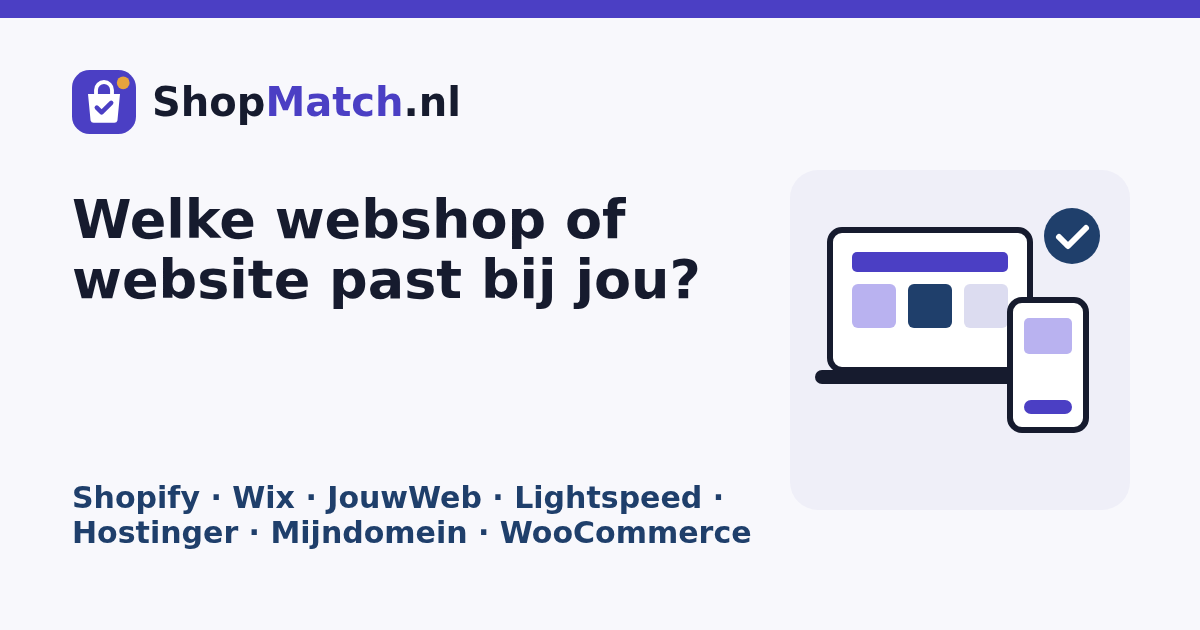
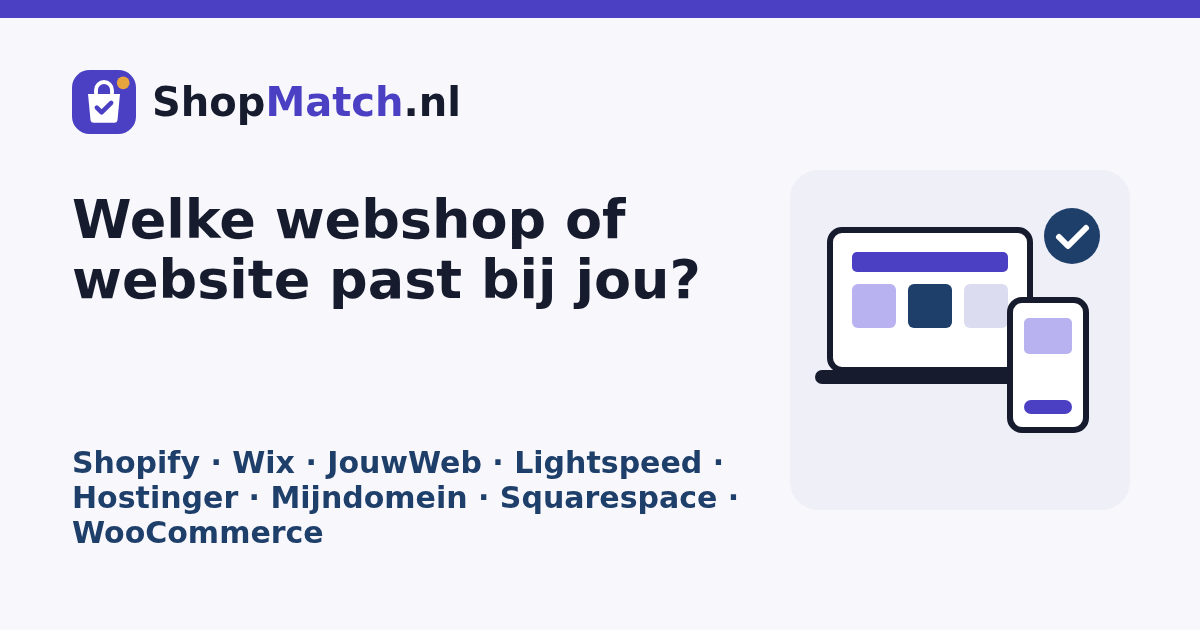
Squarespace toegevoegd: platformpagina, checklist met bronnen (eigen pagina's), EUR-prijzen uit Squarespace pricing.txt, lege partnerslot, overzicht/vergelijken/kosten, og-beeld

Changed region(s): [[0.0617, 0.6937, 0.6475, 0.8746]]

diff --git a/src/lib/platforms.js b/src/lib/platforms.js
@@ -110,6 +110,21 @@ export const PLATFORMS = {
     voor: 'Wie al met WordPress werkt of volledige controle wil.',
     bronnen: [['WooCommerce prijzen', 'https://woocommerce.com/nl/pricing/']],
   },
+  squarespace: {
+    naam: 'Squarespace', slug: 'squarespace', soort: 'Websitebouwer', url: 'https://www.squarespace.com/',
+    kort: 'Websitebouwer met verzorgde templates, waarmee je in elk pakket producten en diensten verkoopt.',
+    vanaf: 12, vanafTekst: '€ 12 per maand (Basic, jaarbetaling)', prijsNoot: 'Zoals Squarespace ze toont. Squarespace noemt de prijzen inclusief btw waar dat in de regio verplicht is.',
+    plannen: [
+      ['Basic', '€ 12 (bij jaarbetaling) · € 17 bij maandbetaling', 'Onbeperkt producten, 2% transactiekosten op webshopverkopen, 2 bijdragers'],
+      ['Core', '€ 18 (bij jaarbetaling) · € 24 bij maandbetaling', '0% transactiekosten op webshopverkopen, kortingen, Google Shopping'],
+      ['Plus', '€ 32 (bij jaarbetaling) · € 42 bij maandbetaling', 'Lagere kaarttarieven, eigen CSS en JavaScript'],
+      ['Advanced', '€ 69 (bij jaarbetaling) · € 79 bij maandbetaling', 'Laagste kaarttarieven, 0% op cursussen en lidmaatschappen'],
+    ],
+    plus: ['14 dagen gratis proberen, zonder creditcard', 'Onbeperkt producten in elk pakket', 'iDEAL via Squarespace Payments', 'Maandelijks of jaarlijks betalen, op elk moment op te zeggen'],
+    min: ['Basic rekent 2% transactiekosten op webshopverkopen', 'De kassa-app werkt alleen in de VS en het VK', 'Geen gratis pakket'],
+    voor: 'Dienstverleners, creatieve ondernemers en kleine merken die een verzorgde site met webshop willen.',
+    bronnen: [['Squarespace prijzen', 'https://www.squarespace.com/pricing'], ['Squarespace prijzen per valuta (EUR)', 'https://www.squarespace.com/assets/pricing.txt']],
+  },
 };
 export const IDS = Object.keys(PLATFORMS);
 
@@ -123,12 +138,13 @@ export const BEST_FOR = {
   hostinger: 'Laagste instapprijs',
   mijndomein: 'Alles bij één Nederlandse partij',
   woocommerce: 'Volledige controle',
+  squarespace: 'Verzorgd design en diensten',
 };
 // Maandprijs van het goedkoopste pakket waarmee je online kunt verkopen (zelfde bedragen als in PLATFORMS.plannen).
-export const VERKOOP_VANAF = { shopify: 21, wix: 25, jouwweb: 10, lightspeed: 68, hostinger: 3.99, mijndomein: 15, woocommerce: 0 };
-export const VERKOOP_PAKKET = { shopify: 'Basic, jaarbetaling', wix: 'Core', jouwweb: 'Pro, tot 10 producten', lightspeed: 'Essential', hostinger: 'Onbeperkt, 48 maanden vooraf', mijndomein: 'Start, 25 producten', woocommerce: 'plugin, plus hosting' };
+export const VERKOOP_VANAF = { shopify: 21, wix: 25, jouwweb: 10, lightspeed: 68, hostinger: 3.99, mijndomein: 15, woocommerce: 0, squarespace: 12 };
+export const VERKOOP_PAKKET = { shopify: 'Basic, jaarbetaling', wix: 'Core', jouwweb: 'Pro, tot 10 producten', lightspeed: 'Essential', hostinger: 'Onbeperkt, 48 maanden vooraf', mijndomein: 'Start, 25 producten', woocommerce: 'plugin, plus hosting', squarespace: 'Basic, jaarbetaling' };
 // Maximaal aantal producten in het grootste standaardpakket. Infinity = onbeperkt; null = niet vermeld door de aanbieder.
-export const MAX_PRODUCTEN = { shopify: Infinity, wix: Infinity, jouwweb: Infinity, lightspeed: 15000, hostinger: null, mijndomein: 20000, woocommerce: Infinity };
+export const MAX_PRODUCTEN = { shopify: Infinity, wix: Infinity, jouwweb: Infinity, lightspeed: 15000, hostinger: null, mijndomein: 20000, woocommerce: Infinity, squarespace: Infinity };
 
 // Checklist per platform. v: 'ja' | 'deels' | 'nee' | null (= niet vermeld op de site van de aanbieder).
 // t: korte toelichting. s: bron-URL (alleen sites van de aanbieder zelf, of de plugin bij WooCommerce).
@@ -144,6 +160,8 @@ const S = {
   hoBouw: 'https://www.hostinger.com/nl/website-maken', hoIdeal: 'https://www.hostinger.com/support/6538716-hostinger-ecommerce-accepting-payments-via-ideal/',
   mdShop: 'https://www.mijndomein.nl/producten/webshop',
   wooPrijs: 'https://woocommerce.com/nl/pricing/', wooPay: 'https://woocommerce.com/document/woopayments/payment-methods/',
+  sqPrijs: 'https://www.squarespace.com/pricing', sqIdeal: 'https://support.squarespace.com/hc/en-us/articles/41153740955149-Accepting-iDEAL-with-Squarespace-Payments',
+  sqTaal: 'https://support.squarespace.com/hc/en-us/articles/205809778-Creating-a-multilingual-site-with-Weglot',
   wooB2b: 'https://woocommerce.com/products/b2b-for-woocommerce/', wooPos: 'https://woocommerce.com/woocommerce-pos/', wpml: 'https://wpml.org/',
 };
 export const FEATURES = {
@@ -230,5 +248,17 @@ export const FEATURES = {
     hosting: { v: 'nee', t: 'Hosting, updates en beveiliging regel je zelf', s: S.wooPrijs },
     proberen: { v: 'ja', t: 'De plugin is gratis; hosting betaal je zelf', s: S.wooPrijs },
     maand: { v: 'ja', t: 'Geen abonnement voor de plugin', s: S.wooPrijs },
+  },
+  squarespace: {
+    ideal: { v: 'ja', t: 'Via Squarespace Payments', s: S.sqIdeal },
+    geenfee: { v: 'deels', t: '0% vanaf Core; Basic rekent 2% op webshopverkopen', s: S.sqPrijs },
+    nl: { v: 'nee', t: 'Internationale aanbieder' },
+    onbeperkt: { v: 'ja', t: 'In elk pakket', s: S.sqPrijs },
+    b2b: { v: null },
+    talen: { v: 'deels', t: 'Via de Weglot-integratie', s: S.sqTaal },
+    pos: { v: 'nee', t: 'Kassa alleen in de VS en het VK', s: S.sqPrijs },
+    hosting: { v: 'ja', t: 'Hosting inbegrepen', s: S.sqPrijs },
+    proberen: { v: 'ja', t: '14 dagen gratis, zonder creditcard', s: S.sqPrijs },
+    maand: { v: 'ja', t: 'Maandbetaling, op elk moment op te zeggen', s: S.sqPrijs },
   },
 };

diff --git a/src/lib/match.js b/src/lib/match.js
@@ -40,10 +40,10 @@ export function score(a) {
     if (a.budget === 'mid') { if (prijs > 40) s -= 25; else if (prijs >= 10) s += 6; }
     if (a.budget === 'hoog' && (id === 'shopify' || id === 'lightspeed')) s += 8;
     // Doel
-    if (a.doel === 'site') { if (['wix', 'jouwweb', 'hostinger'].includes(id)) { s += 18; waarom.push('Sterk in gewone websites'); } if (['shopify', 'lightspeed', 'mijndomein'].includes(id)) s -= 25; }
-    if (a.doel === 'diensten') { if (['wix', 'jouwweb', 'mijndomein'].includes(id)) { s += 12; waarom.push(id === 'mijndomein' ? 'Afspraken boeken zit in elk pakket' : 'Website en diensten verkopen in één'); } if (id === 'lightspeed') s -= 20; }
+    if (a.doel === 'site') { if (['wix', 'jouwweb', 'hostinger', 'squarespace'].includes(id)) { s += 18; waarom.push('Sterk in gewone websites'); } if (['shopify', 'lightspeed', 'mijndomein'].includes(id)) s -= 25; }
+    if (a.doel === 'diensten') { if (['wix', 'jouwweb', 'mijndomein', 'squarespace'].includes(id)) { s += 12; waarom.push(id === 'mijndomein' ? 'Afspraken boeken zit in elk pakket' : 'Website en diensten verkopen in één'); } if (id === 'lightspeed') s -= 20; }
     if (a.doel === 'shop') { if (['shopify', 'jouwweb', 'mijndomein', 'woocommerce'].includes(id)) { s += 10; waarom.push('Gebouwd om online te verkopen'); } }
-    if (a.doel === 'winkel') { if (id === 'lightspeed') { s += 30; waarom.push('Kassa en webshop van één leverancier'); } if (id === 'shopify') { s += 22; waarom.push('Verkopen in de winkel met Shopify POS'); } if (['hostinger', 'wix'].includes(id)) s -= 10; }
+    if (a.doel === 'winkel') { if (id === 'lightspeed') { s += 30; waarom.push('Kassa en webshop van één leverancier'); } if (id === 'shopify') { s += 22; waarom.push('Verkopen in de winkel met Shopify POS'); } if (['hostinger', 'wix', 'squarespace'].includes(id)) s -= 10; }
     // Aantal producten
     if (verkoop && n >= 1000 && ['shopify', 'woocommerce', 'lightspeed'].includes(id)) { s += 14; waarom.push('Schaalt naar duizenden producten'); }
     if (verkoop && n <= 10 && id === 'jouwweb') { s += 8; waarom.push('Pro-pakket: webshop tot 10 producten voor € 10'); }

diff --git a/src/assets/css/style.css b/src/assets/css/style.css
@@ -423,9 +423,9 @@ table.side{font-size:1rem}table.side th[scope=row]{width:34%;background:var(--bg
 .mlinks{display:flex;flex-wrap:wrap;gap:4px 18px;margin:var(--s3) 0 0}.mlinks a,.mlinks button{min-height:48px;display:inline-flex;align-items:center}
 .mwait{color:var(--muted)}
 @media print{.filters,.sortbar{display:none}}
-.logos.seven{grid-template-columns:repeat(2,1fr)}
-@media(min-width:600px){.logos.seven{grid-template-columns:repeat(4,1fr)}}
-@media(min-width:900px){.logos.seven{grid-template-columns:repeat(7,1fr)}}
+.logos.eight{grid-template-columns:repeat(2,1fr)}
+@media(min-width:600px){.logos.eight{grid-template-columns:repeat(4,1fr)}}
+@media(min-width:900px){.logos.eight{grid-template-columns:repeat(8,1fr)}}
 .sortbar .field{margin:0}.sortbar .field label{font-size:.9rem}
 table .sc{font-size:1.2rem}
 table.matrix{min-width:1560px}

diff --git a/scripts/images.py b/scripts/images.py
@@ -4,7 +4,7 @@ from PIL import Image
 B='#4b3fc4';D='#161b2e';S='#efeff8';BG='#f8f8fc';G='#1f3f6b';P='#b9b2f0'
 LOGO='<svg xmlns="http://www.w3.org/2000/svg" viewBox="0 0 40 40"><rect width="40" height="40" rx="11" fill="#4b3fc4"/><path d="M10 15h20l-1.6 16.5a2 2 0 0 1-2 1.5H13.6a2 2 0 0 1-2-1.5z" fill="#fff"/><path d="M15 15v-2.5a5 5 0 0 1 10 0V15" fill="none" stroke="#fff" stroke-width="2.4" stroke-linecap="round"/><path d="m15.5 23.5 3 3 6-6" fill="none" stroke="#4b3fc4" stroke-width="2.8" stroke-linecap="round" stroke-linejoin="round"/><circle cx="32" cy="8" r="4" fill="#e7a33e"/></svg>'
 cards={
- 'home':('Welke webshop of website past bij jou?','Shopify · Wix · JouwWeb · Lightspeed · Hostinger · Mijndomein · WooCommerce'),
+ 'home':('Welke webshop of website past bij jou?','Shopify · Wix · JouwWeb · Lightspeed · Hostinger · Mijndomein · Squarespace · WooCommerce'),
  'match':('Doe de ShopMatch','5 vragen, je top 3 met prijs'),
  'platformen':('Alle webshop-platforms','Prijs, checklist-score en voor wie het past'),
  'vergelijken':('Webshop-platforms vergelijken','Prijs, iDEAL, kassa en B2B naast elkaar'),
@@ -15,6 +15,7 @@ cards={
  'platform-hostinger':('Hostinger Website Bouwer','Prijzen, voor- en nadelen'),
  'platform-mijndomein':('Mijndomein MijnWebshop','Prijzen, voor- en nadelen'),
  'platform-woocommerce':('WooCommerce','Kosten, voor- en nadelen'),
+ 'platform-squarespace':('Squarespace','Prijzen, voor- en nadelen'),
  'vs-shopify-vs-lightspeed':('Shopify of Lightspeed eCom?','Prijzen en verschillen'),
  'vs-wix-vs-jouwweb':('Wix of JouwWeb?','Prijzen en verschillen'),
  'vs-shopify-vs-woocommerce':('Shopify of WooCommerce?','Alles geregeld of alles zelf'),
